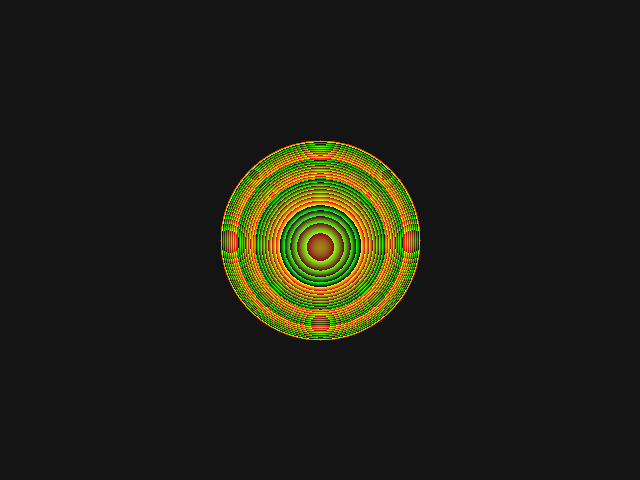
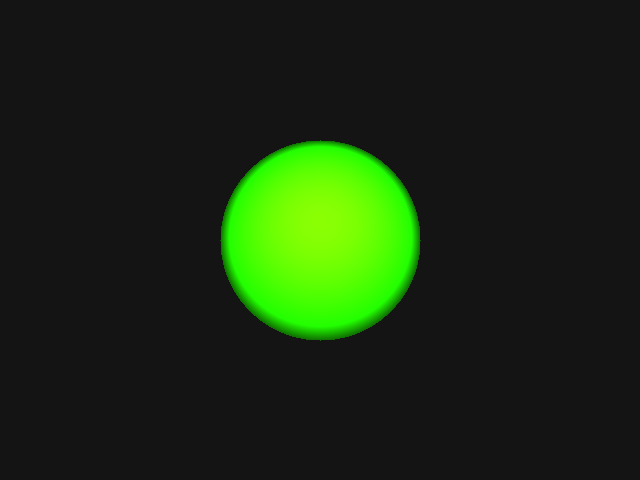
bug fix

Changed region(s): [[0.3438, 0.2812, 0.6562, 0.7188]]

diff --git a/raytracer/RayTracer.cpp b/raytracer/RayTracer.cpp
@@ -24,20 +24,28 @@ void RayTracer::render(Scene* pScene, Camera* pCamera) const {
 				else {
 					IntersectionInfo info(ray, t);
 					Vector3 pos	   = (vOrigin + t * pCamera->m_vDirection);
-					Vector3 normal = Vector3Normalize(pos - pScene->m_vSpheres[i].m_vPosition);
+					Vector3 normal = Vector3Normalize((pos - pScene->m_vSpheres[i].m_vPosition) + pos);
 					Vector3 lDir	= Vector3Normalize(pScene->m_vPointLights[0].m_vPosition - pos);
 					info.setNormal(normal);
 					
-					double fCosDiff	= Vector3Dot(normal, lDir);
+					double fCosDiff	= Vector3Dot(normal, -lDir);
 
-					Vector3 vReflect 	= Vector3Normalize(2 * Vector3Dot(-lDir, normal) * normal + -lDir);
+					Vector3 vReflect 	= Vector3Normalize(2 * Vector3Dot(-lDir, normal) * normal + lDir);
 
 					double fCosSpec  	= Vector3Dot(ray.m_vDirection, vReflect);
-					double fN = 100;
-					double fK = (1.0 * fCosDiff) + (1.0 * ((fN * 2)/(2*FM_PI)) * (fCosSpec*fCosSpec));
+					double fN = 50;
+					double fK = (0.5 * fCosDiff) + (0.5 * ((fN + 2)/(2*FM_PI)) * pow(fCosSpec, 2));
 
-					std::cout<<fK<<std::endl;
+					//std::cout<<fK<<std::endl;
+					
 					pCamera->m_ppvSensor[x][y] = pScene->m_vPointLights[0].m_vTotalPower * fK;
+					
+					if(pCamera->m_ppvSensor[x][y].r < 0) pCamera->m_ppvSensor[x][y].r = 0;
+					if(pCamera->m_ppvSensor[x][y].g < 0) pCamera->m_ppvSensor[x][y].g = 0;
+					if(pCamera->m_ppvSensor[x][y].b < 0) pCamera->m_ppvSensor[x][y].b = 0;
+					if(pCamera->m_ppvSensor[x][y].r > 255) pCamera->m_ppvSensor[x][y].r = 255;
+					if(pCamera->m_ppvSensor[x][y].g > 255) pCamera->m_ppvSensor[x][y].g = 255;
+					if(pCamera->m_ppvSensor[x][y].b > 255) pCamera->m_ppvSensor[x][y].b = 255;
 				}
 					
 			}

diff --git a/raytracer/main.cpp b/raytracer/main.cpp
@@ -1,11 +1,13 @@
 #include "GTRenderer.h"
 
 int main() {
-	Sphere first(Vector3(0.0, 0.0, 30.0), 100.0);
-	PointLight light0(Vector3(0.0, 20.0, 30.0), Vector3(30.0, 220.0, 0.9));
+	Sphere first(Vector3(0.0, 0.0, 0.0), 100.0);
+	Sphere second(Vector3(0.0, -4000.0, 0.0), 100.0);
+	PointLight light0(Vector3(0.0, 20.0, 0.0), Vector3(30.0, 220.0, 0.9));
 	//LightSource test;
 	Scene scene;
 	scene.m_vSpheres.push_back(first);
+	//scene.m_vSpheres.push_back(second);
 	scene.m_vPointLights.push_back(light0);
 	Camera camera(640, 480, Vector3(0.0, 0.0, -2.0), Vector3(0.0, 0.0, 1.0));
 	Renderer* tracer = new RayTracer();
